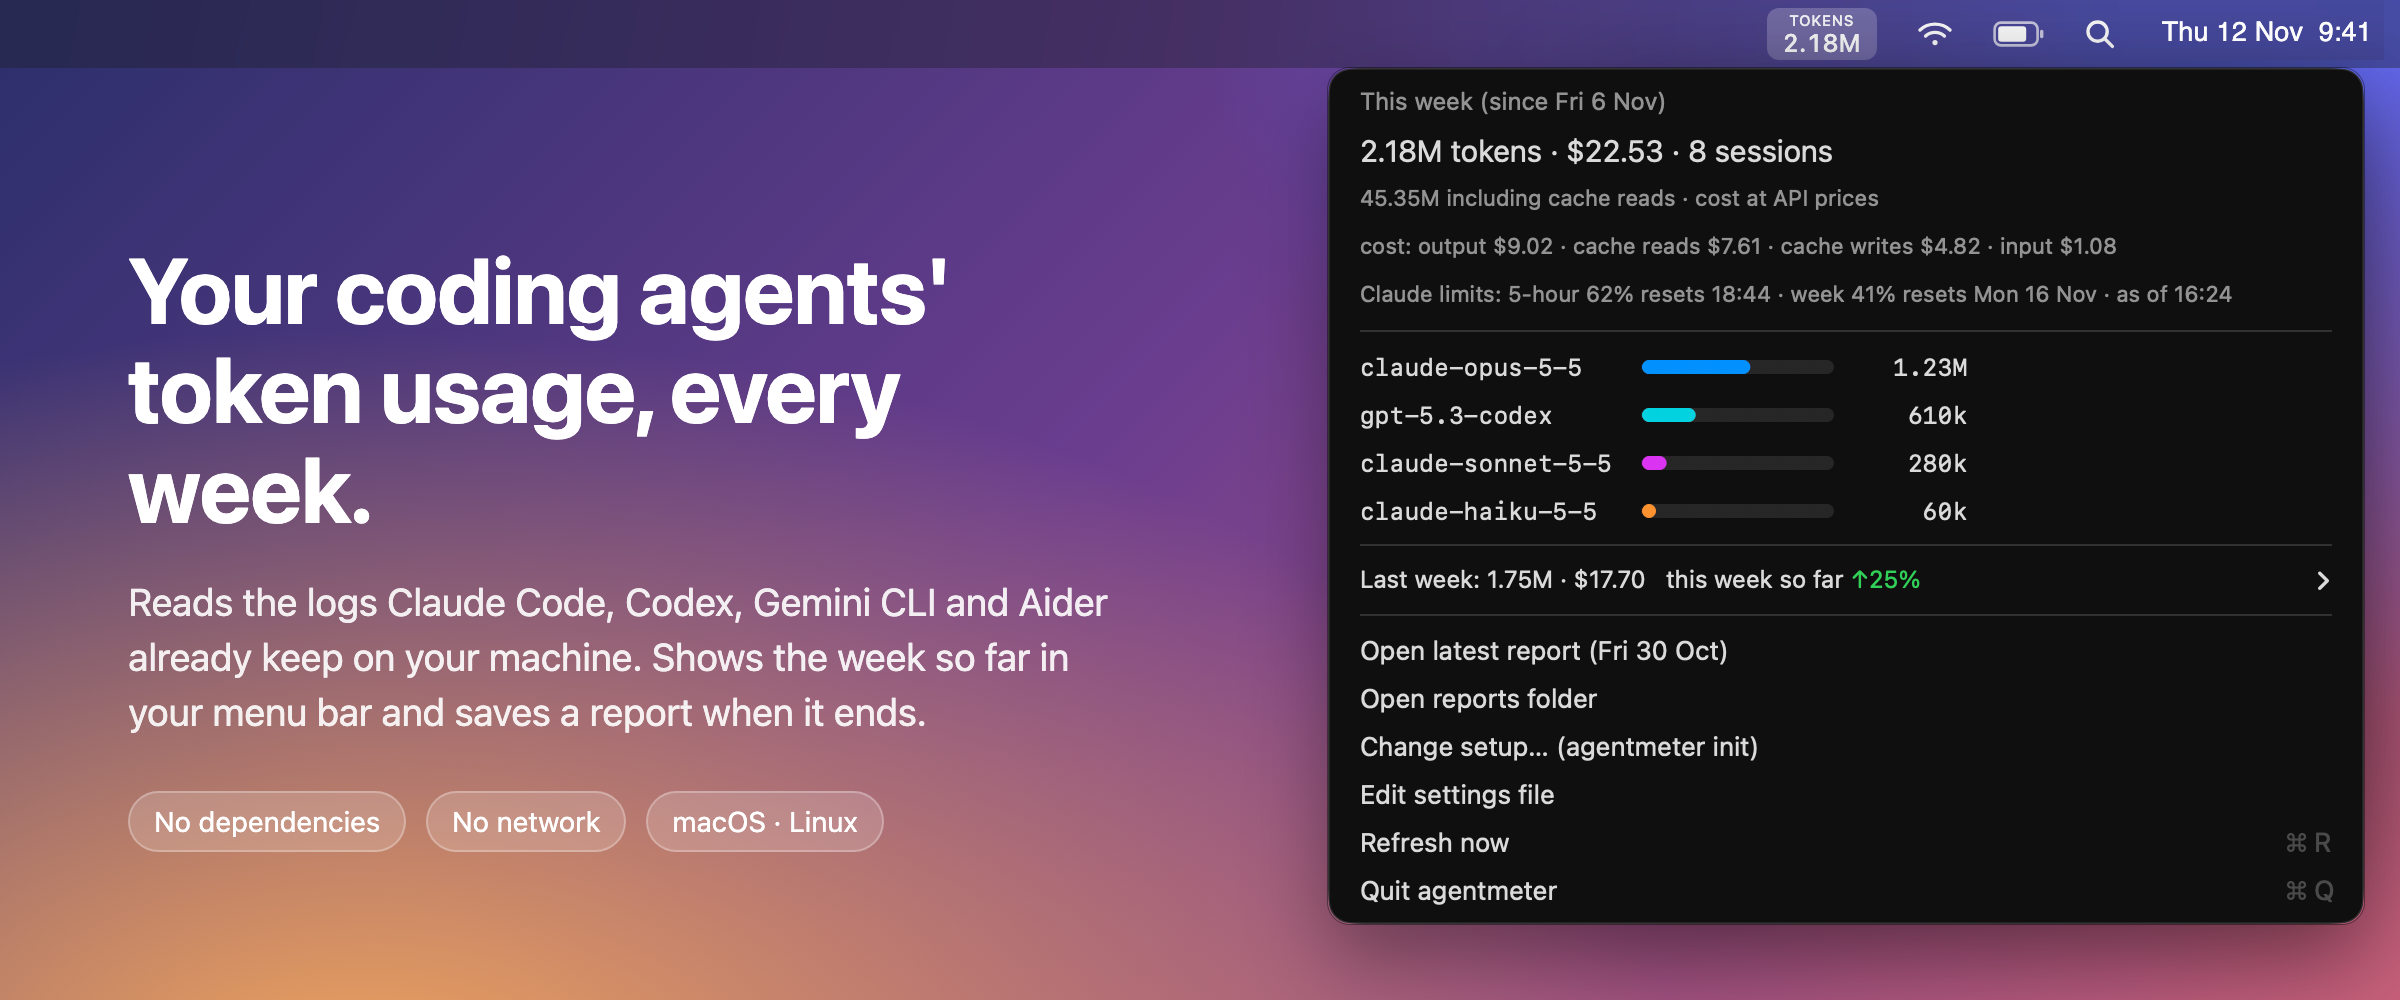
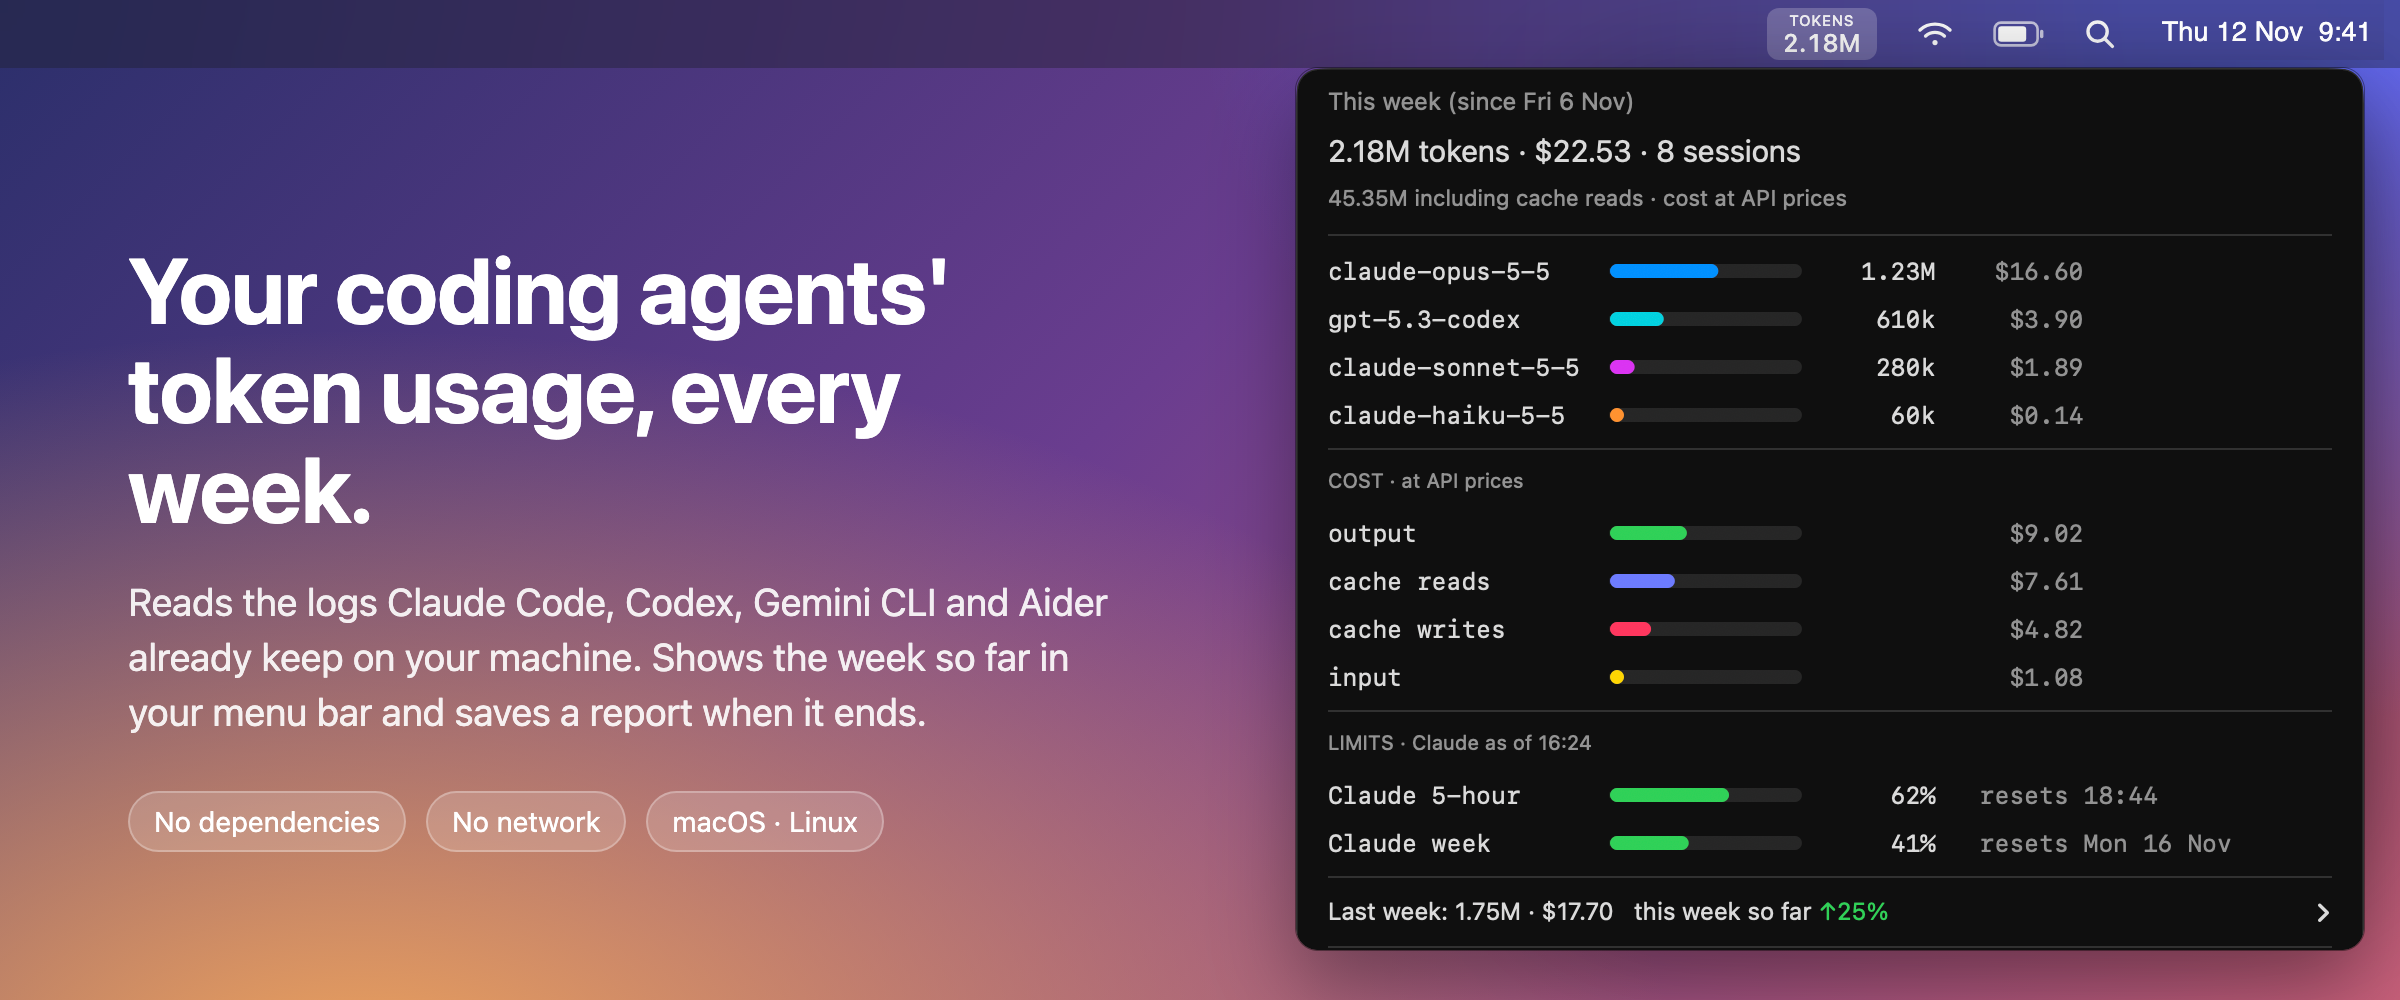
feat: menu shows cost and limits as bar rows like the models

diff --git a/macos/AgentmeterBar.swift b/macos/AgentmeterBar.swift
@@ -120,20 +120,30 @@ func shareBar(_ share: Double, colour: NSColor, width: CGFloat = 96, height: CGF
     }
 }
 
-/// "claude-opus-5-5   [bar]   1.23M": name, the model's share of the window as a bar, the value.
-func modelRow(_ model: String, width: Int, share: Double, value: Double, colour: NSColor) -> NSAttributedString {
+/// "claude-opus-5-5   [bar]   1.23M   $10.20": a label, a bar, a value, and optional extra text.
+/// Models, the cost split and the plan limits all use it, so they line up.
+func barRow(_ label: String, width: Int, share: Double, value: String, extra: String = "", extraRight: Bool = true,
+            colour: NSColor, dim: Bool = false) -> NSAttributedString {
     let mono = NSFont.monospacedSystemFont(ofSize: 12, weight: .regular)
-    let name = model.count > width ? String(model.prefix(width)) : model.padding(toLength: width, withPad: " ", startingAt: 0)
-    let v = fmt(value)
-    let out = NSMutableAttributedString(string: name + "  ", attributes: [.font: mono, .foregroundColor: NSColor.labelColor])
+    let ink: NSColor = dim ? .secondaryLabelColor : .labelColor
+    let name = label.count > width ? String(label.prefix(width)) : label.padding(toLength: width, withPad: " ", startingAt: 0)
+    let out = NSMutableAttributedString(string: name + "  ", attributes: [.font: mono, .foregroundColor: ink])
     let bar = NSTextAttachment()
     bar.image = shareBar(share, colour: colour)
     bar.bounds = NSRect(x: 0, y: 1, width: 96, height: 7)
     out.append(NSAttributedString(attachment: bar))
-    out.append(NSAttributedString(string: String(repeating: " ", count: max(2, 9 - v.count)) + v,
-                                  attributes: [.font: mono, .foregroundColor: NSColor.labelColor]))
+    out.append(NSAttributedString(string: String(repeating: " ", count: max(2, 9 - value.count)) + value,
+                                  attributes: [.font: mono, .foregroundColor: ink]))
+    if !extra.isEmpty {
+        let pad = extraRight ? String(repeating: " ", count: max(2, 10 - extra.count)) : "   "
+        out.append(NSAttributedString(string: pad + extra, attributes: [.font: mono, .foregroundColor: NSColor.secondaryLabelColor]))
+    }
     return out
 }
+
+/// Bar colours for the cost split, by kind of token.
+let costColour: [String: NSColor] = ["cache reads": .systemIndigo, "cache writes": .systemPink, "output": .systemGreen,
+                                     "input": .systemYellow, "logged by the tool": .systemGray]
 
 struct Row {
     let period, tool, model: String
@@ -158,8 +168,9 @@ struct Snapshot {
     var rows: [Row] = []
     var thisPeriod = "", lastPeriod = "", name = "week"
     var labels: [String: String] = [:]
-    var costSplit: [String: String] = [:]     // period -> "cache reads $5.40 · cache writes $2.68 · output $2.37"
-    var limitLines: [String] = []             // "Claude limits: 5-hour 4% resets 20:29 · week 1% … · as of 16:00"
+    var costParts: [String: [(String, Double)]] = [:]   // period -> [("cache reads", 5.40), …], largest first
+    var limitRows: [(label: String, percent: Double, stale: Bool, note: String)] = []
+    var limitsCaption = ""                               // "Claude as of 16:00"
     var sessionKeys: [String: Set<String>] = [:]   // period -> distinct "tool/session" (a session using two models counts once)
     var error: String?
 
@@ -198,8 +209,17 @@ func loadSnapshot() -> Snapshot {
     s.lastPeriod = cfg["last_period"] as? String ?? ""
     s.name = (cfg["period"] as? [String: Any])?["name"] as? String ?? "week"
     s.labels = cfg["labels"] as? [String: String] ?? [:]
-    s.costSplit = cfg["cost_split"] as? [String: String] ?? [:]
-    s.limitLines = cfg["limit_lines"] as? [String] ?? []
+    for (period, parts) in cfg["cost_parts"] as? [String: [[Any]]] ?? [:] {
+        s.costParts[period] = parts.compactMap { p in
+            guard p.count == 2, let n = p[0] as? String, let v = (p[1] as? NSNumber)?.doubleValue else { return nil }
+            return (n, v)
+        }
+    }
+    for r in cfg["limit_rows"] as? [[String: Any]] ?? [] {
+        s.limitRows.append((label: r["label"] as? String ?? "", percent: (r["percent"] as? NSNumber)?.doubleValue ?? 0,
+                            stale: r["stale"] as? Bool ?? false, note: r["note"] as? String ?? ""))
+    }
+    s.limitsCaption = cfg["limits_caption"] as? String ?? ""
     for r in obj["periods"] as? [[String: Any]] ?? [] {
         s.rows.append(Row(period: r["period"] as? String ?? "", tool: r["tool"] as? String ?? "",
                           model: r["model"] as? String ?? "?",
@@ -375,25 +395,47 @@ final class App: NSObject, NSApplicationDelegate, NSMenuDelegate {
             menu.addItem(text("This \(s.name) (since \(since(s.thisPeriod)))", size: 12, color: .secondaryLabelColor, action: show))
             menu.addItem(text("\(fmt(cur)) tokens · \(money(s.cost(s.thisPeriod))) · \(sessions) session\(sessions == 1 ? "" : "s")", size: 15, action: show))
             menu.addItem(text("\(fmt(s.total(s.thisPeriod))) including cache reads · cost at API prices", size: 11, color: .secondaryLabelColor, action: show))
-            if let split = s.costSplit[s.thisPeriod], !split.isEmpty {
-                menu.addItem(text("cost: \(split)", size: 11, color: .secondaryLabelColor, action: show))
-            }
-            for line in s.limitLines {
-                menu.addItem(text(line, size: 11, color: .secondaryLabelColor))
-            }
             menu.addItem(.separator())
             // one colour per model, the same in this week's rows and last week's submenu
             let rows = s.rows(s.thisPeriod), lastRows = s.rows(s.lastPeriod)
             var colour: [String: NSColor] = [:]
             for r in rows + lastRows where colour[r.model] == nil { colour[r.model] = palette[colour.count % palette.count] }
-            let width = min(24, (rows + lastRows).map { $0.model.count }.max() ?? 10)
+            let parts = s.costParts[s.thisPeriod] ?? []
+            let labels = (rows + lastRows).map { $0.model } + parts.map { $0.0 } + s.limitRows.map { $0.label }
+            let width = min(24, labels.map { $0.count }.max() ?? 10)
             if rows.isEmpty { menu.addItem(text("No sessions yet this \(s.name)", color: .secondaryLabelColor, action: show)) }
             for r in rows {
                 let it = NSMenuItem(title: r.model, action: show, keyEquivalent: "")
                 it.target = self
-                it.attributedTitle = modelRow(r.model, width: width, share: cur > 0 ? r.fresh / cur : 0, value: r.fresh, colour: colour[r.model]!)
-                it.toolTip = "\(r.tool) · \(money(r.cost)) · \(r.sessions) session\(r.sessions == 1 ? "" : "s") · click for the full breakdown"
+                it.attributedTitle = barRow(r.model, width: width, share: cur > 0 ? r.fresh / cur : 0, value: fmt(r.fresh),
+                                            extra: money(r.cost), colour: colour[r.model]!)
+                it.toolTip = "\(r.tool) · \(r.sessions) session\(r.sessions == 1 ? "" : "s") · click for the full breakdown"
                 menu.addItem(it)
+            }
+            // what the cost is made of, as bars of the same kind
+            let costTotal = parts.reduce(0) { $0 + $1.1 }
+            if !parts.isEmpty {
+                menu.addItem(.separator())
+                menu.addItem(text("COST · at API prices", size: 10, color: .secondaryLabelColor))
+                for (name, dollars) in parts {
+                    let it = NSMenuItem(title: name, action: show, keyEquivalent: "")
+                    it.target = self
+                    it.attributedTitle = barRow(name, width: width, share: costTotal > 0 ? dollars / costTotal : 0, value: "",
+                                                extra: money(dollars), colour: costColour[name] ?? .systemGray)
+                    menu.addItem(it)
+                }
+            }
+            // plan limits, from the tools' own last reading
+            if !s.limitRows.isEmpty {
+                menu.addItem(.separator())
+                menu.addItem(text("LIMITS · \(s.limitsCaption)", size: 10, color: .secondaryLabelColor))
+                for l in s.limitRows {
+                    let hue: NSColor = l.stale ? .systemGray : l.percent >= 90 ? .systemRed : l.percent >= 70 ? .systemOrange : .systemGreen
+                    let it = NSMenuItem(title: l.label, action: nil, keyEquivalent: "")
+                    it.attributedTitle = barRow(l.label, width: width, share: l.percent / 100, value: "\(Int(l.percent))%",
+                                                extra: l.note, extraRight: false, colour: hue, dim: l.stale)
+                    menu.addItem(it)
+                }
             }
             menu.addItem(.separator())
             // last week: total and change here, its models in a submenu
@@ -412,7 +454,8 @@ final class App: NSObject, NSApplicationDelegate, NSMenuDelegate {
             for r in lastRows {
                 let it = NSMenuItem(title: r.model, action: #selector(showLastPeriod), keyEquivalent: "")
                 it.target = self
-                it.attributedTitle = modelRow(r.model, width: width, share: prev > 0 ? r.fresh / prev : 0, value: r.fresh, colour: colour[r.model]!)
+                it.attributedTitle = barRow(r.model, width: width, share: prev > 0 ? r.fresh / prev : 0, value: fmt(r.fresh),
+                                            extra: money(r.cost), colour: colour[r.model]!)
                 sub.addItem(it)
             }
             if lastRows.isEmpty { sub.addItem(text("No sessions", color: .secondaryLabelColor)) }

diff --git a/agentmeter/cli.py b/agentmeter/cli.py
@@ -467,7 +467,8 @@ def main(argv=None):
         print(f"wrote {', '.join(done)} to {d}" if done else f"no new finished {per.name}s to write in {d}")
         return
     if args.json:
-        from .prices import split
+        from .limits import age, short
+        from .prices import PARTS, split
         limits = all_limits()
         parts = defaultdict(lambda: defaultdict(float))
         for r in weekly:
@@ -475,6 +476,15 @@ def main(argv=None):
                 parts[r["period"]][k] += v
         meta["cost_split"] = {k: split(v) for k, v in parts.items()}      # ready-made text for the menu bar app
         meta["limit_lines"] = limit_lines(Style(False), limits)
+        # rows for the menu bar app, drawn like the model rows: [label, dollars] largest first; limits with a note
+        names = dict(PARTS)
+        meta["cost_parts"] = {k: [[names.get(n, n), round(x, 4)] for n, x in sorted(v.items(), key=lambda kv: -kv[1]) if x >= 0.005]
+                              for k, v in parts.items()}
+        shown = [x for x in limits if x["percent"] or "(" not in x["name"]]
+        meta["limit_rows"] = [{"label": f"{x['tool']} {x['name']}", "percent": x["percent"], "stale": x["stale"],
+                               "note": short(x)} for x in shown]
+        meta["limits_caption"] = " · ".join(f"{t} {age(next(x for x in shown if x['tool'] == t))}"
+                                            for t in dict.fromkeys(x["tool"] for x in shown))
         json.dump({"periods": weekly, "sessions": sessions, "config": meta, "limits": limits}, sys.stdout, indent=1)
         return
     if not weekly:
